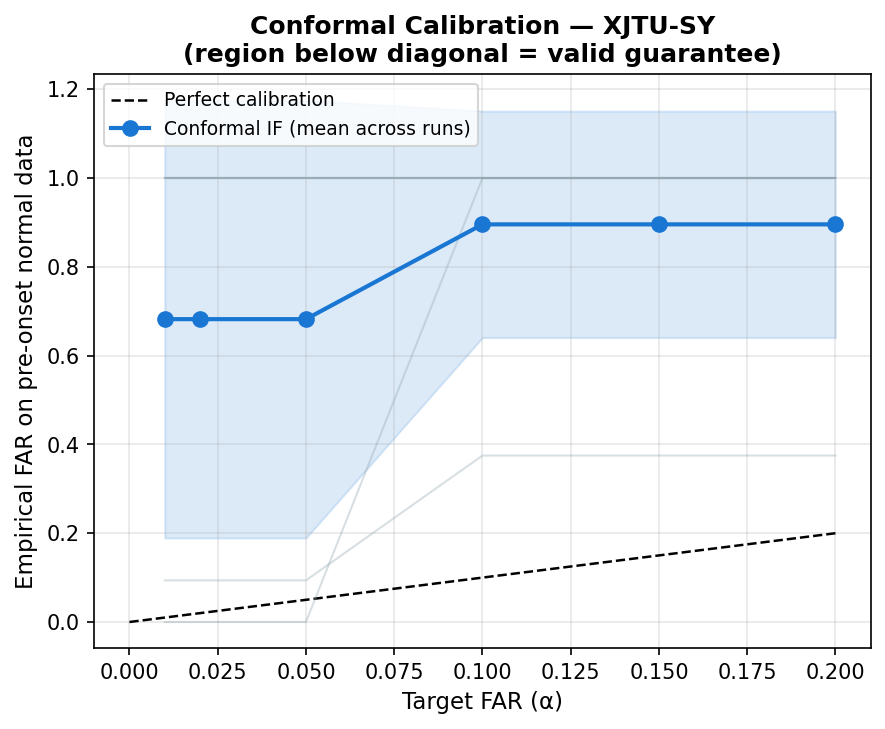
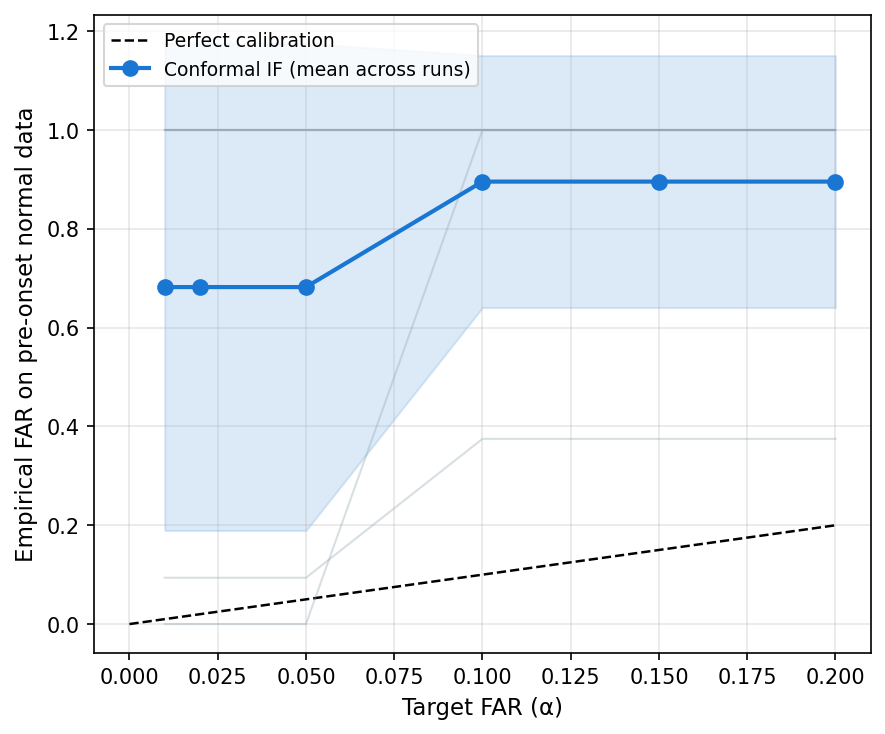
fix(figures): move Fig. 3 legend off the data, drop in-plot titles from Figs 2, 4, 5
Fig. 3 (fig_sweep): loc=best placed the legend on the Decimate panel and
hid several detector lines. It now sits outside the axes to the right via
fig.legend with bbox_to_anchor, so no line is obscured.

In-plot titles removed from Fig. 2 (fig_crossdataset), Fig. 4
(fig_conformal_panels) and Fig. 5 (fig_tradeoff_panels): the caption is
where description belongs and an in-plot title can drift out of sync with
it, as Fig. 10's did.

Method differs by figure, deliberately:
- Fig. 2 and the four conformal sources are re-plotted from saved CSVs.
  Verified first by re-plotting WITH the title and confirming a
  byte-identical match to the current figure, so regeneration cannot
  silently change plotted data.
- The two trade-off sources are CROPPED, not re-plotted. Re-plotting from
  tradeoff_IMS.csv reproduces results/figures exactly but the manuscript
  carries an older render, and the relationship inverts for XJTU-SY.
  Cropping at the axes top spine removes the title band while leaving
  every plotted pixel untouched (71 rows on both).

25 pages, unchanged.

diff --git a/paper/make_figures.py b/paper/make_figures.py
@@ -83,7 +83,11 @@ def fig_leadtime_vs_sampling():
         ax.set_title(mode.capitalize(), fontsize=10, fontweight="bold")
         ax.grid(alpha=0.3, which="both")
     axes[0].set_ylabel("Detection lead time (h)")
-    axes[1].legend(fontsize=6.5, loc="best")
+    # Legend outside the axes: loc="best" landed it on the Decimate panel's data
+    # and hid several detector lines.
+    handles, lbls = axes[0].get_legend_handles_labels()
+    fig.legend(handles, lbls, fontsize=6.5, loc="center left",
+               bbox_to_anchor=(1.005, 0.5), frameon=True, borderaxespad=0.0)
     plt.suptitle("Lead time vs SCADA-rate sampling (IMS, controlled sweep)",
                  fontsize=10.5, fontweight="bold", y=1.02)
     plt.tight_layout()
@@ -161,8 +165,8 @@ def fig_crossdataset():
     ax.set_xticklabels([short[m] for m in methods], fontsize=8)
     ax.set_ylabel("Median run-level lead-time $\\Delta$\n"
                   "(aggregate $-$ decimate), h")
-    ax.set_title("Aggregation vs decimation across datasets (run-level; none significant)",
-                 fontsize=9.5, fontweight="bold")
+    # No in-plot title: the LaTeX caption carries the description, and an in-plot
+    # title can drift out of sync with it (same reason the mintrain title went).
     ax.legend(fontsize=7.5)
     ax.grid(alpha=0.3, axis="y")
     plt.tight_layout()
